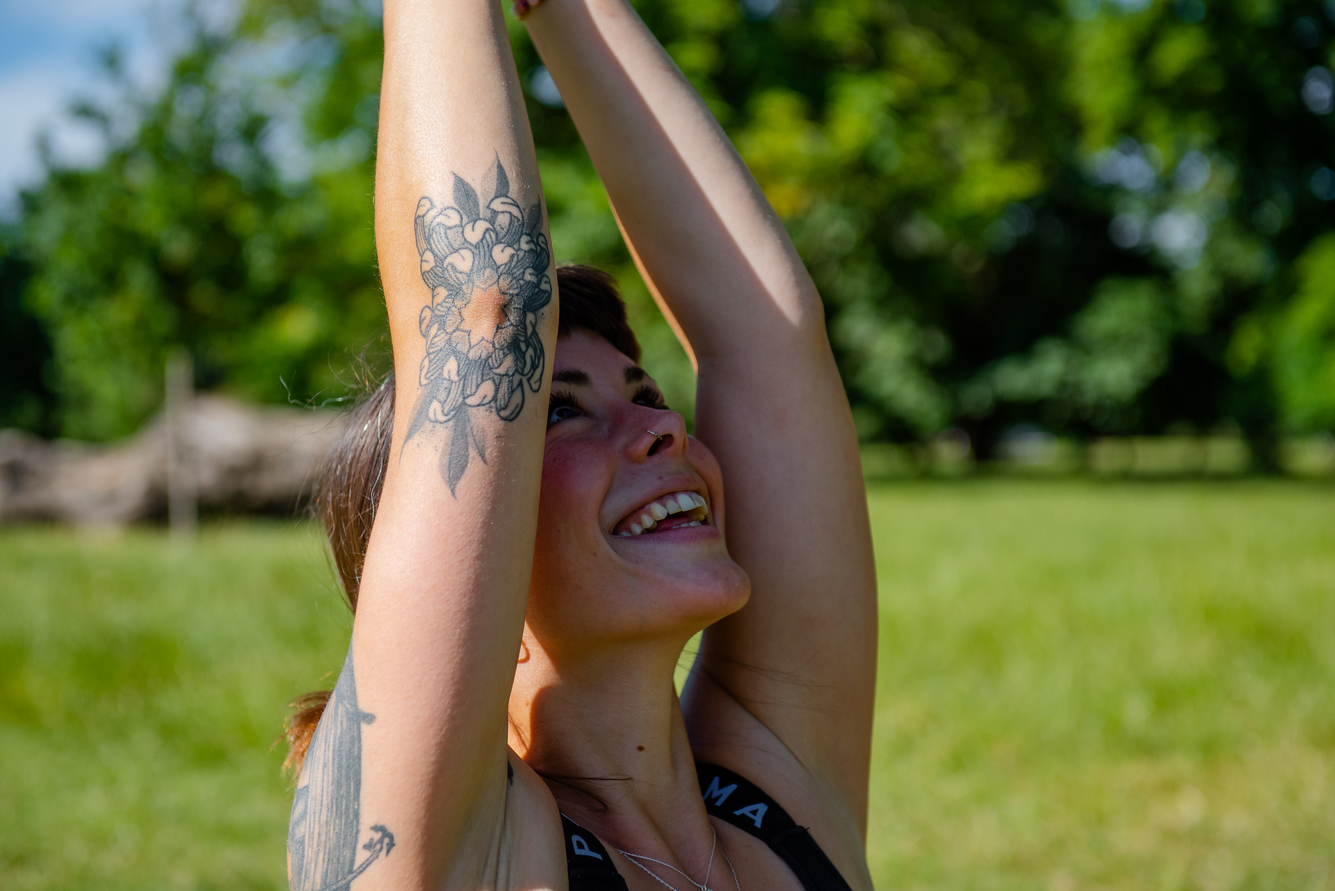
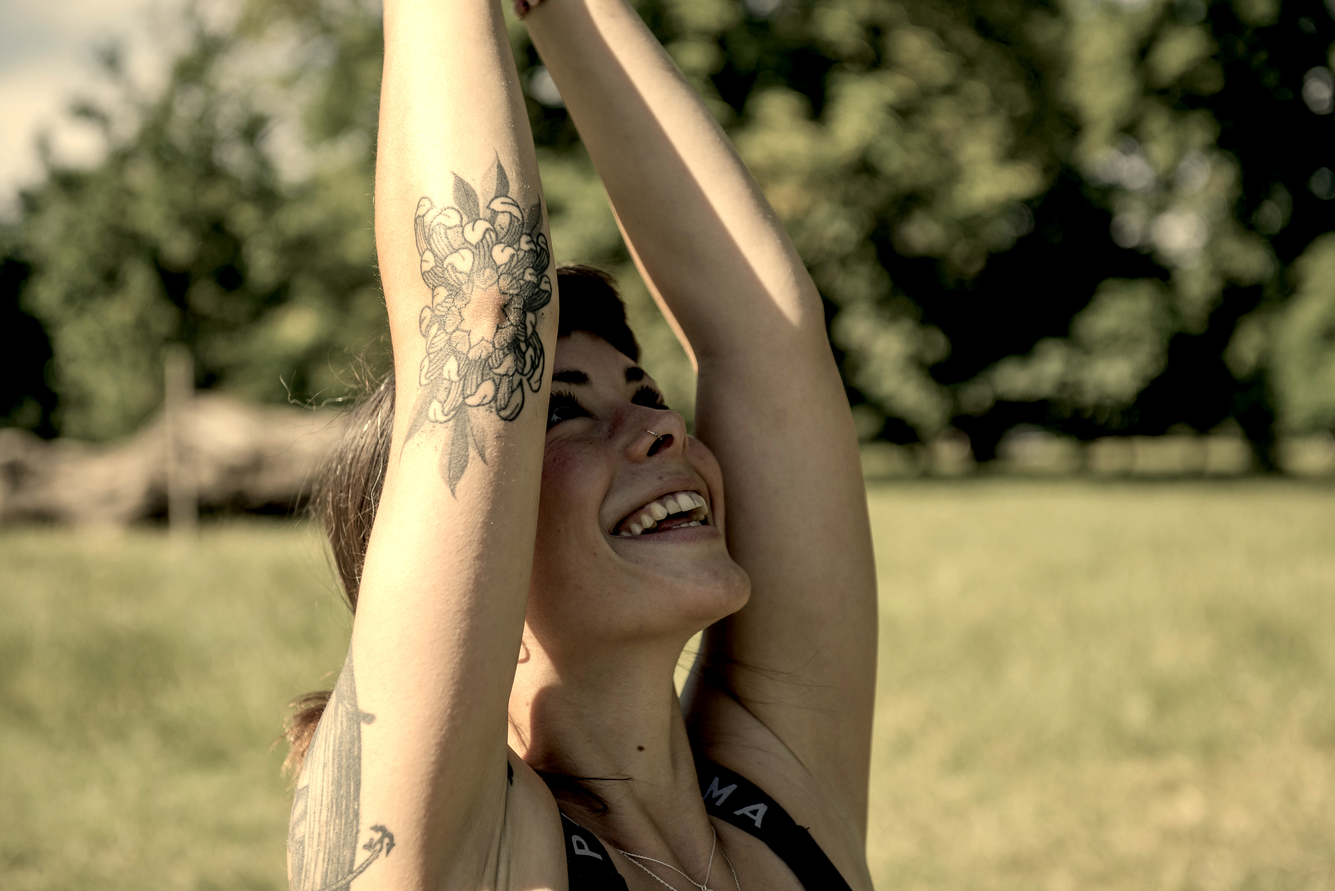
different main picture, linked nav button to calendly

diff --git a/index.html b/index.html
@@ -8,8 +8,7 @@
     <script src="https://cdn.jsdelivr.net/npm/bootstrap@5.2.0/dist/js/bootstrap.bundle.min.js" integrity="sha384-A3rJD856KowSb7dwlZdYEkO39Gagi7vIsF0jrRAoQmDKKtQBHUuLZ9AsSv4jD4Xa" crossorigin="anonymous"></script>
   </head>
   <body class="text-white" data-spy="scroll">
-    <div class="">
-      <div style="background-image: url('baviyoga_photos/F2.jpg'); background-size:cover" class="bg-dark d-flex flex-column min-vh-100">
+      <div style="background-image: url('baviyoga_photos/f15.jpg'); background-size:cover" class="bg-dark d-flex flex-column min-vh-100">
         <nav class="navbar navbar-expand-md">
           <a class="navbar-brand fs-2 px-5 link-light" href="index.html">@baviyoga</a>
           <button class="me-3 navbar-toggler" type="button" data-bs-toggle="collapse" data-bs-target="#navbarNav" aria-controls="navbarNav" aria-expanded="false" aria-label="Toggle navigation">
@@ -33,7 +32,7 @@
                 </button>
               </li>
               <li class="nav-item pe-auto d-flex ">
-                <button class="btn btn-secondary fs-6 flex-grow-1 align-self-stretch py-4 px-5" onclick="window.location.href='book.html';">
+                <button class="btn btn-secondary fs-6 flex-grow-1 align-self-stretch py-4 px-5" onclick="window.location.href='https://calendly.com/baviyoga';">
                   Book a Class
                 </button>
               </li>
@@ -55,7 +54,6 @@
           </div>
         </header>
       </div>
-    </div>
     <section style="background-color: #383830"class="d-flex flex-column flex-grow-1 align-items-center">
       <div class="container-xl  mt-5">
         <h2 class="display-5 ms-4">Upcoming Classes</h2>
